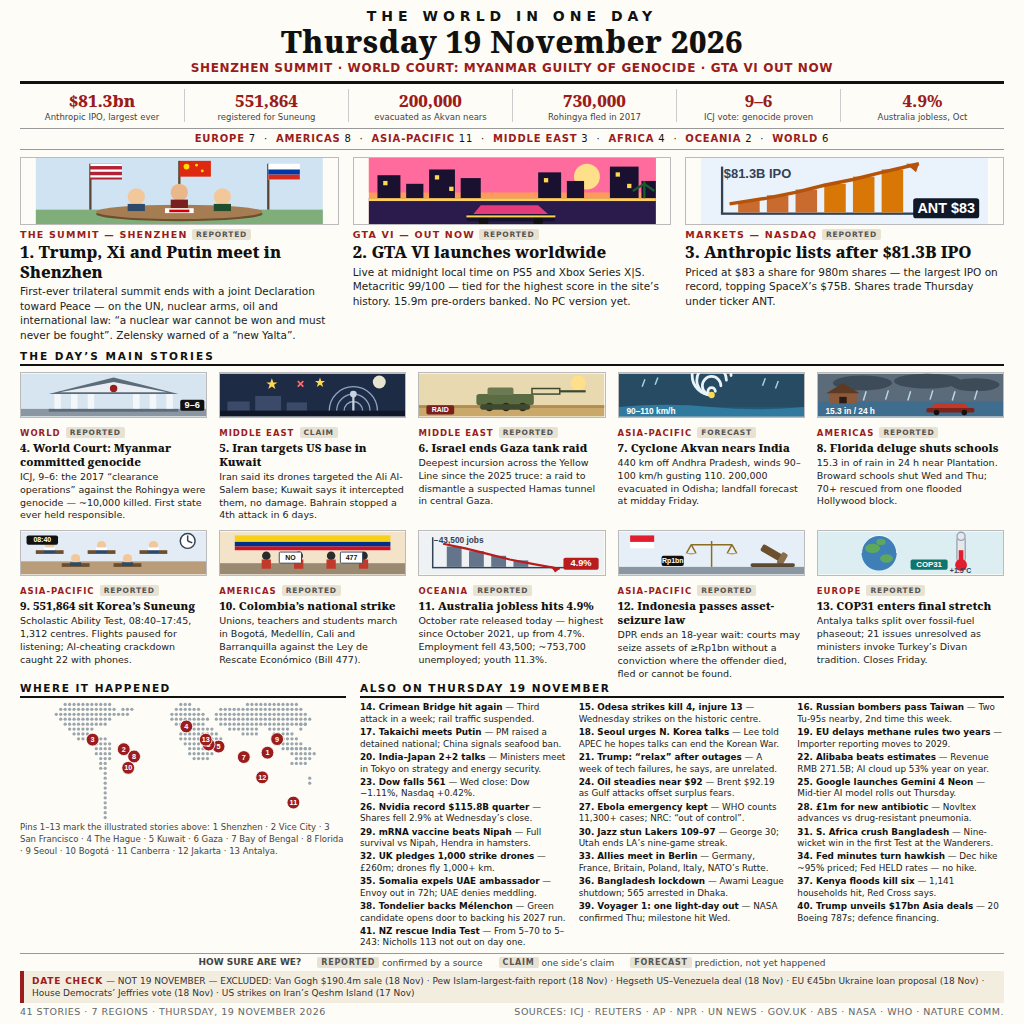
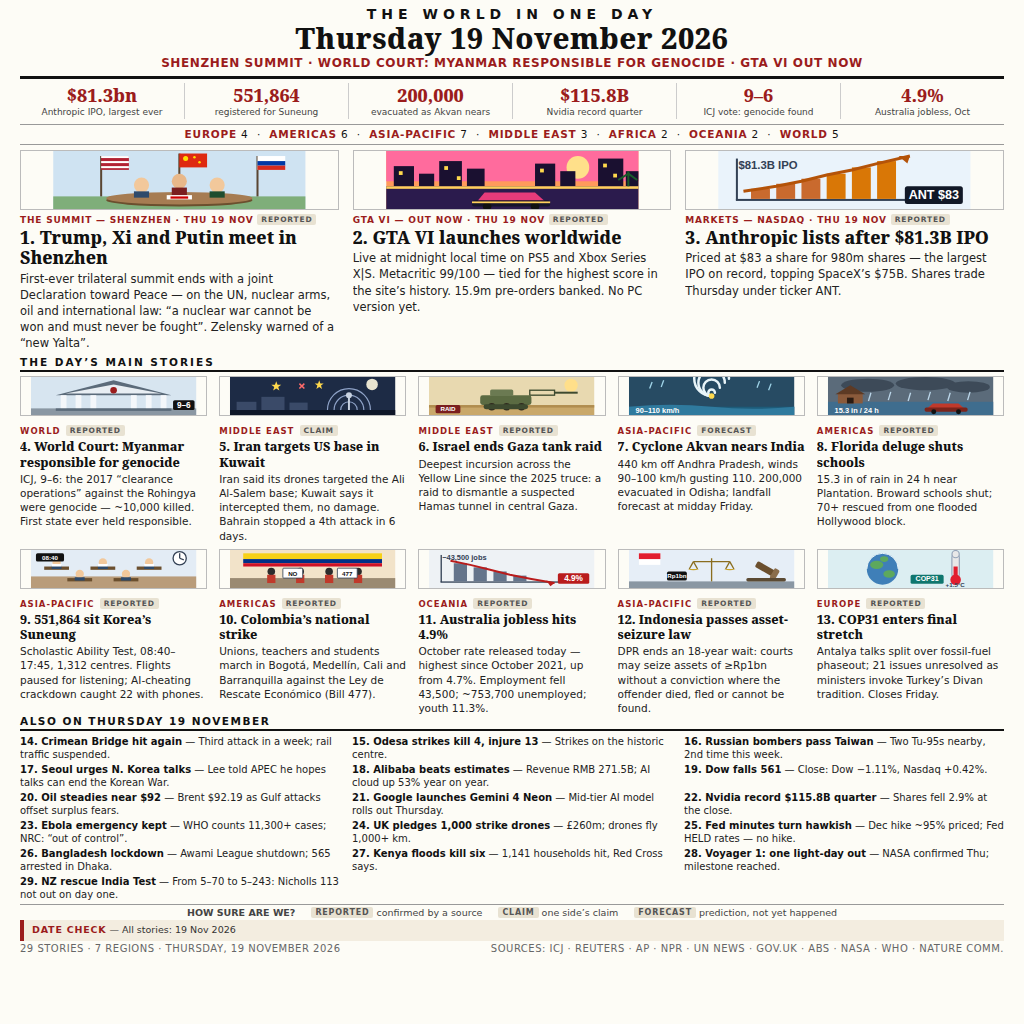
Rev per Claude REVISI: trim briefs 28->16, larger type, drop map, fix ICJ wording, reconcile counts (29 stories), remove Wed wording, one-line date check

diff --git a/main.ts b/main.ts
@@ -8,8 +8,9 @@
 // Challenger to the live entry "Elegant Foundry": same verified core
 // (Shenzhen / Gulf / GTA VI / Anthropic) plus 13 code-drawn SVG
 // illustrations, the ICJ ruling, Florida, Suneung, Colombia, Australia
-// 4.9%, Indonesia's asset law, a world map, a stat strip and a date
-// check — 41 stories in total.
+// 4.9%, Indonesia's asset law, a stat strip and a date check —
+// 29 stories in total (revision: trimmed briefs, larger type, map
+// removed, counts reconciled).
 //
 // The harness sets MAKEFUN_OUTPUT_DIR; without it we fall back to /output,
 // the path the competition rules name.

diff --git a/tools/render.py b/tools/render.py
@@ -318,7 +318,7 @@ def heroes_html(heroes):
         <div class="hero-art">{ART[h['art']]()}</div>
         <div class="hero-kick">{esc(h['kicker'])} <span class="tag">{esc(h['tag'])}</span></div>
         <h2 class="clip clamp2">{h['n']}. {esc(h['headline'])}</h2>
-        <p class="clip clamp4">{esc(h['body'])}</p>
+        <p class="clip clamp5">{esc(h['body'])}</p>
       </article>"""
         for h in heroes
     )
@@ -332,7 +332,7 @@ def mains_html(mains):
         <div class="main-art">{ART[m['art']]()}</div>
         <div class="main-meta"><span class="region">{esc(m['region'])}</span> <span class="tag">{esc(m['tag'])}</span></div>
         <h3 class="clip clamp2">{m['n']}. {esc(m['headline'])}</h3>
-        <p class="clip clamp4">{esc(m['fact'])}</p>
+        <p class="clip clamp5">{esc(m['fact'])}</p>
       </article>"""
         for m in mains
     )
@@ -369,13 +369,13 @@ def build_html(data):
   body {{ background: #fff; font-family: "DejaVu Sans", sans-serif; color: #111; }}
   #page {{
     width: {PAGE_W}px; height: {PAGE_H}px; overflow: hidden;
-    padding: 8px 20px 7px; background: #fdfcf6;
+    padding: 6px 20px 5px; background: #fdfcf6;
   }}
   .masthead {{ text-align: center; border-bottom: 3px solid #111; padding-bottom: 6px; }}
   .paper {{ font-size: 14px; font-weight: bold; letter-spacing: 5px; }}
   .date {{
     font-family: "Noto Serif", "DejaVu Serif", serif; font-weight: 800;
-    font-size: 31px; line-height: 1.05; letter-spacing: 0.5px; margin-top: 1px;
+    font-size: 29px; line-height: 1.05; letter-spacing: 0.5px; margin-top: 1px;
   }}
   .subhead {{
     color: #9b1c1c; font-size: 12px; font-weight: bold; letter-spacing: 0.6px;
@@ -383,25 +383,25 @@ def build_html(data):
   }}
   .stats {{
     display: grid; grid-template-columns: repeat(6, 1fr);
-    border-bottom: 1px solid #999; padding: 5px 0 6px;
+    border-bottom: 1px solid #999; padding: 4px 0 5px;
   }}
   .stat {{ text-align: center; border-left: 1px solid #ccc; padding: 0 4px; }}
   .stat:first-child {{ border-left: none; }}
-  .stat-num {{ font-family: "Noto Serif", "DejaVu Serif", serif; font-weight: 800; font-size: 17px; color: #9b1c1c; }}
-  .stat-label {{ font-size: 8.5px; color: #444; line-height: 1.25; }}
+  .stat-num {{ font-family: "Noto Serif", "DejaVu Serif", serif; font-weight: 800; font-size: 18px; color: #9b1c1c; }}
+  .stat-label {{ font-size: 9px; color: #444; line-height: 1.25; }}
   .regions {{
-    text-align: center; font-size: 10px; letter-spacing: 0.8px;
-    padding: 4px 0 5px; border-bottom: 1px solid #999;
+    text-align: center; font-size: 10.5px; letter-spacing: 0.8px;
+    padding: 3px 0 4px; border-bottom: 1px solid #999;
   }}
   .regions b {{ color: #9b1c1c; }}
-  .heroes {{ display: grid; grid-template-columns: repeat(3, 1fr); gap: 0 14px; padding-top: 7px; }}
-  .hero-art svg {{ width: 100%; height: 68px; display: block; border: 1px solid #bbb; }}
-  .hero-kick {{ color: #9b1c1c; font-size: 9.5px; font-weight: bold; letter-spacing: 1.2px; margin-top: 4px; }}
+  .heroes {{ display: grid; grid-template-columns: repeat(3, 1fr); gap: 0 14px; padding-top: 5px; }}
+  .hero-art svg {{ width: 100%; height: 60px; display: block; border: 1px solid #bbb; }}
+  .hero-kick {{ color: #9b1c1c; font-size: 9px; font-weight: bold; letter-spacing: 0.8px; margin-top: 4px; white-space: nowrap; }}
   .hero h2 {{
     font-family: "Noto Serif", "DejaVu Serif", serif; font-weight: 800;
-    font-size: 16.5px; line-height: 1.18; margin: 2px 0 3px;
+    font-size: 17.5px; line-height: 1.18; margin: 2px 0 3px;
   }}
-  .hero p {{ font-size: 10.5px; line-height: 1.4; color: #222; }}
+  .hero p {{ font-size: 11.5px; line-height: 1.4; color: #222; }}
   .tag {{
     display: inline-block; background: #e8e2d2; color: #555;
     font-size: 7.5px; font-weight: bold; letter-spacing: 0.8px;
@@ -409,42 +409,39 @@ def build_html(data):
   }}
   .section-head {{
     font-size: 10.5px; font-weight: bold; letter-spacing: 2px; text-transform: uppercase;
-    border-bottom: 2px solid #111; padding-bottom: 2px; margin: 7px 0 6px;
+    border-bottom: 2px solid #111; padding-bottom: 2px; margin: 5px 0 4px;
   }}
-  .mains {{ display: grid; grid-template-columns: repeat(5, 1fr); gap: 8px 12px; }}
-  .main-art svg {{ width: 100%; height: 46px; display: block; border: 1px solid #bbb; }}
+  .mains {{ display: grid; grid-template-columns: repeat(5, 1fr); gap: 6px 12px; }}
+  .main-art svg {{ width: 100%; height: 40px; display: block; border: 1px solid #bbb; }}
   .main-meta {{ margin-top: 3px; }}
   .main .region {{ color: #9b1c1c; font-size: 8.5px; font-weight: bold; letter-spacing: 1px; }}
   .main h3 {{
     font-family: "Noto Serif", "DejaVu Serif", serif; font-weight: 800;
-    font-size: 11.5px; line-height: 1.22; margin: 1px 0 2px;
+    font-size: 12.5px; line-height: 1.22; margin: 1px 0 2px;
   }}
-  .main p {{ font-size: 9.5px; line-height: 1.35; color: #222; }}
-  .lower {{ display: flex; gap: 14px; margin-top: 2px; }}
-  .mapbox {{ width: 326px; flex: none; }}
-  .mapbox h4, .briefbox h4 {{
+  .main p {{ font-size: 10.5px; line-height: 1.35; color: #222; }}
+  .lower {{ display: flex; gap: 14px; margin-top: 0; }}
+  .briefbox h4 {{
     font-size: 10.5px; font-weight: bold; letter-spacing: 1.5px; text-transform: uppercase;
     border-bottom: 2px solid #111; padding-bottom: 2px; margin-bottom: 4px;
   }}
-  .mapbox svg {{ width: 100%; height: 118px; display: block; }}
-  .mapkey {{ font-size: 8.5px; line-height: 1.4; color: #444; margin-top: 2px; }}
   .briefbox {{ flex: 1; }}
   .briefs {{ display: grid; grid-template-columns: 1fr 1fr 1fr; gap: 2px 12px; }}
-  .brief {{ font-size: 8.8px; line-height: 1.3; color: #222; }}
+  .brief {{ font-size: 10px; line-height: 1.3; color: #222; }}
   .brief b {{ color: #111; }}
   .legend {{
-    display: flex; justify-content: center; gap: 16px; margin-top: 4px;
-    font-size: 9px; color: #444; border-top: 1px solid #999; padding-top: 3px;
+    display: flex; justify-content: center; gap: 16px; margin-top: 3px;
+    font-size: 9.5px; color: #444; border-top: 1px solid #999; padding-top: 2px;
   }}
   .legend .tag {{ font-size: 8px; }}
   .datecheck {{
     background: #f3ede0; border-left: 4px solid #9b1c1c;
-    font-size: 9px; line-height: 1.35; color: #333; padding: 4px 8px; margin-top: 3px;
+    font-size: 9.5px; line-height: 1.35; color: #333; padding: 4px 8px; margin-top: 2px;
   }}
   .datecheck b {{ color: #9b1c1c; letter-spacing: 0.8px; }}
   .footer {{
-    display: flex; justify-content: space-between; margin-top: 3px;
-    font-size: 9.5px; color: #666; letter-spacing: 0.5px;
+    display: flex; justify-content: space-between; margin-top: 2px;
+    font-size: 10px; color: #666; letter-spacing: 0.5px;
   }}
   .clip {{ overflow: hidden; display: -webkit-box; -webkit-box-orient: vertical; }}
   .clamp2 {{ -webkit-line-clamp: 2; }}
@@ -464,11 +461,6 @@ def build_html(data):
   {heroes_html(data['heroes'])}
   {mains_html(data['mains'])}
   <div class="lower">
-    <div class="mapbox">
-      <h4>Where it happened</h4>
-      {map_svg()}
-      <div class="mapkey">Pins 1–13 mark the illustrated stories above: 1 Shenzhen · 2 Vice City · 3 San Francisco · 4 The Hague · 5 Kuwait · 6 Gaza · 7 Bay of Bengal · 8 Florida · 9 Seoul · 10 Bogotá · 11 Canberra · 12 Jakarta · 13 Antalya.</div>
-    </div>
     <div class="briefbox">
       <h4>Also on Thursday 19 November</h4>
       <section class="briefs">{briefs_html(data['briefs'])}

diff --git a/GATE-RECORD.md b/GATE-RECORD.md
@@ -196,3 +196,20 @@ against the 21 Nov 07:00 WIB deadline and the 19-submission budget.
 - `.makefun/owner.json` (this commit, bookkeeping — NOT part of the
   submitted commit): {"wallet": "DFCtzctdpp5LYq324fCboMBbqQuwLB9EBKNv6eRYM1AA"}
   (Phantom payout wallet).
+
+---
+
+## Revision addendum (21 Nov 2026 ~02:45–03:00 WIB — Claude REVISI, bos order "Ikutin Claude, bikin revisi")
+
+- Claude review (Sonnet 5.5, saw the image, 02:43 WIB): verdict REVISI. Content strong, day unmistakable; weakness is legibility at small size + fixable faithfulness/consistency slips. Changes applied per Claude's priority list:
+  1. Text bigger, volume cut: "Also" list 28 → 16 briefs (dropped: EU methane rules, India–Japan 2+2, Trump "relax", mRNA vaccine, Jazz–Lakers, S. Africa cricket, Allies Berlin, Somalia expels UAE, Tondelier/Mélenchon, Trump $17bn Asia deals, £1m antibiotic, Takaichi meets Putin); body fonts raised (hero 10.5→11.5px, main 9.5→10.5px, briefs 8.8→10px, clamp4→clamp5 where needed).
+  2. Map REMOVED (numbered pins + tiny key failed "reads from the picture alone"; direct labels would collide at 312px and be mush at 300px). Space went to the full-width briefs at larger type.
+  3. 2017 stat replaced: "730,000 Rohingya fled in 2017" → "$115.8B Nvidia record quarter" (figure from stories.json brief n26, a 19-Nov figure).
+  4. Genocide wording: subhead "MYANMAR GUILTY OF GENOCIDE" → "MYANMAR RESPONSIBLE FOR GENOCIDE"; main #4 headline "committed genocide" → "responsible for genocide"; stat "ICJ vote: genocide proven" → "ICJ vote: genocide found". "First state ever held responsible" KEPT exactly — parent verified true via Reuters + Le Monde.
+  5. Counts reconciled (Claude's "43 vs 41" arithmetic was wrong — the strip summed to 41; the real issue was the per-region counts). Recounted from data with the original hero-assignment method (Shenzhen→WORLD, GTA→WORLD, Anthropic→AMERICAS): EUROPE 4 · AMERICAS 6 · ASIA-PACIFIC 7 · MIDDLE EAST 3 · AFRICA 2 · OCEANIA 2 · WORLD 5 = 29; footer now "29 STORIES".
+  6. All "Wed"/"Wednesday" wording removed (5 spots: Odesa, Dow, Nvidia, Voyager, Florida); "THU 19 NOV" stamp added to all three hero kickers.
+  7. DATE CHECK strip shrunk to one line: "All stories: 19 Nov 2026".
+  8. SKIPPED (optional lead-trio swap): swapping GTA VI out of the heroes for the ICJ ruling would duplicate the subhead's "WORLD COURT: MYANMAR RESPONSIBLE FOR GENOCIDE" as the hero headline, and Claude marked it optional with a redesign warning. Breadth already holds with GTA VI as a hero.
+- Kept as-is: huge dated masthead, REPORTED/CLAIM/FORECAST tags, region strip, one-line subtitle. No news fact or number changed; no invented figures.
+- Render: tools/render.py layout guard passes (no overflow, no clipped text). New entry.png 1024×1024, 310,871 bytes, sha256 f320e44fcf1b3dfcd27afca171d73321dfa3df57e155bc4fa9cb34f9c10b53f5 — rendered twice, identical bytes. Viewed full-size + at 300px: masthead, hero headlines and main headlines legible at 300px; no garbled/truncated text.
+- Status: REVISION BUILT ONLY. No bundle, no submit. Submit needs bos's separate explicit "submit". Entries close 21 Nov 2026 07:00 WIB.
